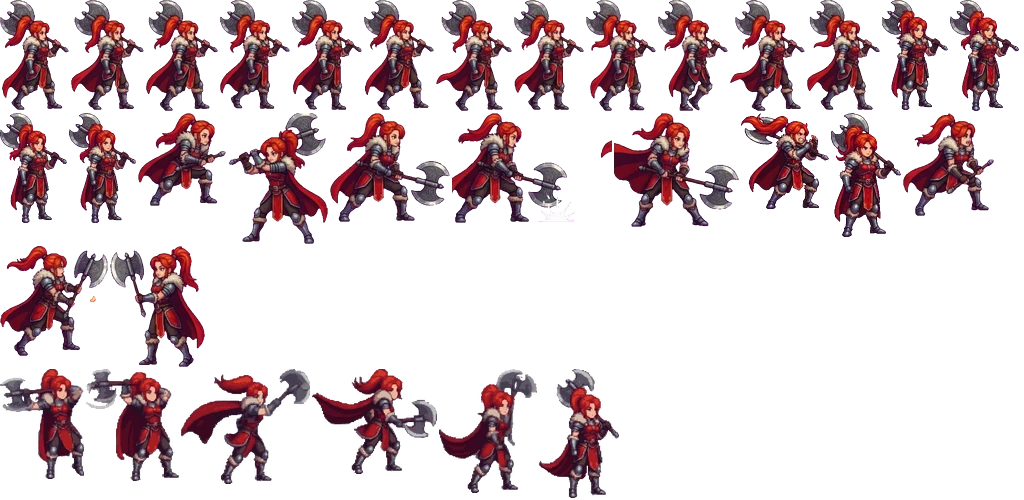
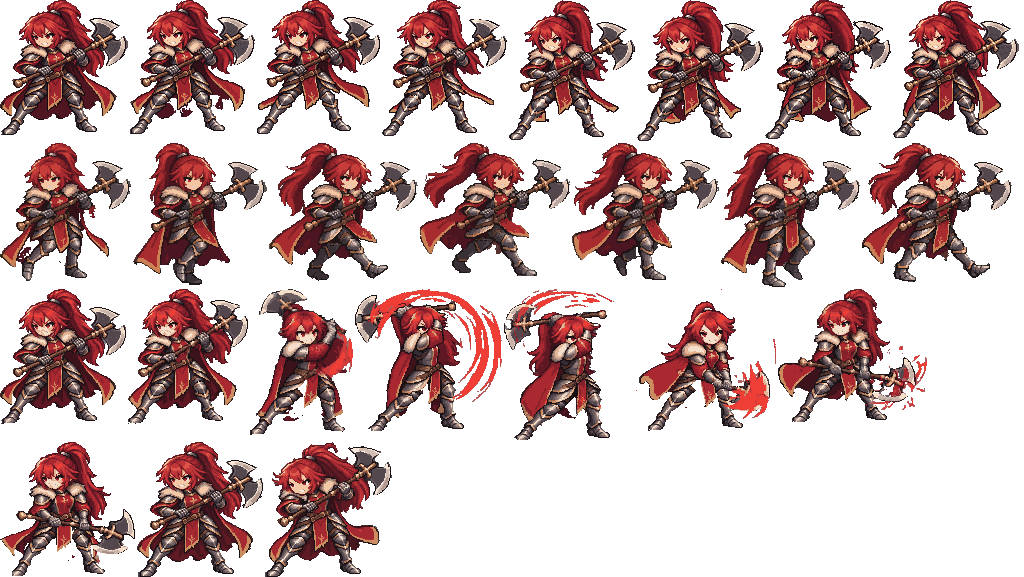
Kara en el estilo nuevo dentro del juego: reposo, caminar de perfil, ataque con media luna roja y golpe (SpriteCook)
Claude-Session: https://claude.ai/code/session_01C2SB4oU3LiuVGzsNuHyfze

diff --git a/www/js/anim_data.js b/www/js/anim_data.js
@@ -1,3 +1,3 @@
 /* Generado por tools/art/build_heroes.py — no editar a mano. */
 'use strict';
-const HERO_ANIM = {"iop":{"bh":110,"walk":[[0,0,69,110,31.8,109.3],[71,0,73,110,35.5,110.0],[146,0,72,111,34.0,110.4],[220,0,70,109,29.9,108.9],[292,0,70,110,30.5,109.3],[364,0,70,110,33.3,110.0],[436,0,76,111,40.8,110.4],[514,0,70,110,31.2,109.3],[586,0,70,111,32.3,110.7],[658,0,70,111,32.1,110.7],[730,0,75,111,42.1,111.1],[807,0,73,110,36.3,110.0]],"idle":[[882,0,66,110,29.9,110.1],[950,0,69,111,32.4,110.8],[0,113,67,110,31.6,109.9],[69,113,67,110,32.3,109.4]],"attack":[[0,369,84,110,64.9,109.9],[86,369,93,112,64.4,112.1],[181,369,129,115,62.2,114.9],[312,369,125,105,62.2,105.5],[439,369,98,124,51.1,123.8],[539,369,80,129,45.5,128.8]],"hurt":[[741,113,88,96,50.0,95.9],[831,113,70,124,28.5,124.1]],"cast":[[903,113,91,103,44.8,102.6],[0,246,108,110,41.8,109.7],[110,246,95,121,60.0,120.6]]},"cra":{"bh":110,"walk":[[0,0,76,110,37.3,109.7],[78,0,77,110,38.5,110.0],[157,0,77,110,38.4,110.0],[236,0,76,111,38.5,110.3],[314,0,76,109,36.7,109.0],[392,0,76,109,37.0,109.0],[470,0,76,109,35.7,109.0],[548,0,76,109,39.4,109.0],[626,0,76,111,37.1,110.7],[704,0,77,111,38.5,110.3],[783,0,76,111,35.2,110.7],[861,0,77,111,38.4,110.7]],"idle":[[940,0,74,111,36.8,110.7],[0,113,73,109,30.0,109.3]],"attack":[[75,113,43,109,21.3,108.4],[120,113,78,113,23.7,112.2],[200,113,77,112,23.7,111.9],[279,113,67,109,22.9,108.4],[348,113,81,112,22.6,111.6],[431,113,42,107,19.5,106.2]],"hurt":[[475,113,91,108,43.9,107.9],[568,113,77,112,46.1,112.1]],"cast":[[647,113,92,106,32.4,105.8],[741,113,106,110,33.5,110.0],[849,113,91,110,32.8,109.2],[0,228,134,111,62.7,111.1],[136,228,106,130,18.9,129.9]]},"feca":{"bh":110,"walk":[[0,0,59,110,33.0,110.0],[61,0,59,110,33.0,110.0],[122,0,58,110,31.4,110.0],[182,0,59,110,33.1,110.0],[243,0,58,111,31.7,110.8],[303,0,58,112,32.1,111.7],[363,0,59,112,32.9,111.3],[424,0,59,110,32.8,110.0],[485,0,58,111,31.4,110.8],[545,0,58,110,31.6,109.6]],"idle":[[605,0,54,110,24.2,110.2],[661,0,56,110,23.6,110.0],[719,0,59,110,25.2,109.8]],"attack":[[780,0,96,108,35.2,107.1],[878,0,119,111,37.6,111.0],[0,114,80,110,33.6,109.0],[82,114,103,115,36.6,114.8]],"hurt":[[187,114,107,102,61.6,101.8],[296,114,68,118,30.4,118.2]],"cast":[[366,114,66,100,29.6,99.7],[434,114,123,122,51.5,121.5],[559,114,76,110,37.6,110.0],[637,114,162,110,66.0,109.2],[801,114,58,124,26.6,124.0]]},"sombra":{"bh":110,"walk":[[0,0,86,110,37.7,110.0],[88,0,85,110,37.8,110.0],[175,0,72,110,36.7,110.0],[249,0,86,110,36.9,110.0],[337,0,86,110,37.6,110.0],[425,0,73,111,38.0,110.4],[500,0,73,111,37.8,110.8],[575,0,73,110,38.0,110.0],[650,0,72,110,36.9,109.6],[724,0,72,110,37.9,110.0],[798,0,72,110,37.5,109.6],[872,0,72,110,36.5,110.0]],"idle":[[946,0,70,110,33.1,109.9],[0,113,71,111,33.9,110.6],[73,113,67,110,31.0,109.7],[142,113,69,110,33.0,110.1]],"attack":[[213,113,126,106,54.7,105.5],[341,113,127,110,54.9,109.1],[470,113,123,108,66.9,107.3],[595,113,107,113,53.0,112.3],[704,113,127,111,55.3,110.9],[833,113,143,125,66.1,124.5]],"hurt":[[0,240,72,108,35.1,108.0],[74,240,99,112,40.1,112.0]],"cast":[[175,240,124,110,52.9,110.9],[301,240,131,106,64.0,105.7],[434,240,139,107,62.5,106.7],[575,240,124,110,52.3,110.0],[701,240,141,109,64.1,108.1],[844,240,124,110,52.6,110.0]]},"domadora":{"bh":110,"walk":[[0,0,60,107,27.5,106.4],[62,0,59,107,27.1,106.9],[123,0,60,107,27.2,106.4],[185,0,59,107,27.2,106.4],[246,0,60,109,27.4,108.2],[308,0,62,110,29.7,109.6],[372,0,66,110,32.0,110.0],[440,0,64,110,31.3,109.1],[506,0,61,110,27.5,110.0],[569,0,62,112,28.6,111.3],[633,0,66,112,31.1,111.8],[701,0,67,112,34.1,111.3],[770,0,61,114,27.7,113.1],[833,0,62,114,28.1,113.1],[897,0,61,114,27.6,113.6],[960,0,61,114,25.8,114.0]],"idle":[[0,116,53,110,25.3,110.1],[55,116,54,110,25.9,109.9],[111,116,54,110,26.1,109.5],[167,116,53,110,25.0,110.3]],"attack":[[222,116,126,120,42.4,119.5],[350,116,135,102,58.9,101.5],[487,116,149,110,39.5,109.2],[638,116,149,110,39.6,109.8]],"hurt":[[789,116,85,109,50.0,109.0],[876,116,61,111,27.2,111.3]],"cast":[[939,116,76,81,39.5,80.5],[0,238,105,127,52.2,127.0],[107,238,121,131,62.1,130.4],[230,238,132,93,31.0,93.0]]},"artificiera":{"bh":110,"walk":[[0,0,57,109,28.3,108.2],[59,0,69,109,27.3,108.6],[130,0,69,109,27.1,108.6],[201,0,69,109,27.4,108.6],[272,0,69,110,27.5,109.4],[343,0,70,111,28.6,110.2],[415,0,70,111,31.2,110.2],[487,0,68,110,30.8,109.8],[557,0,70,112,27.7,111.4],[629,0,70,112,28.8,111.4],[701,0,70,111,27.4,111.0],[773,0,70,111,28.0,111.0]],"idle":[[845,0,60,110,23.1,109.7],[907,0,56,110,22.4,110.1],[965,0,56,111,22.3,110.3],[0,114,53,110,22.2,109.9]],"attack":[[55,114,65,107,33.9,106.6],[122,114,69,112,32.4,111.9],[193,114,107,110,30.5,110.0]],"hurt":[[302,114,80,111,46.2,110.6],[384,114,45,109,24.3,108.4]],"cast":[[431,114,90,98,36.8,97.9],[523,114,77,110,34.0,110.0],[602,114,98,116,45.9,115.2]]},"berserker":{"bh":110,"walk":[[0,0,142,111,36.3,110.0],[144,0,143,111,35.8,110.0],[289,0,139,111,33.5,110.0],[430,0,136,110,35.6,109.4],[568,0,149,111,42.4,110.0],[719,0,145,109,37.1,108.9],[866,0,146,109,43.8,108.9],[0,113,136,109,35.7,108.9],[138,113,149,111,41.4,110.6],[289,113,139,111,33.8,110.6],[430,113,146,110,43.8,109.4],[578,113,138,111,37.4,110.0],[718,113,149,111,42.0,110.6],[869,113,145,110,37.9,109.4],[0,226,144,111,36.1,110.0],[146,226,137,111,35.7,110.0]],"idle":[[285,226,137,110,33.8,109.7],[424,226,138,110,35.3,110.0],[564,226,96,113,42.8,112.6]],"attack":[[662,226,145,94,35.9,93.8],[809,226,139,118,39.6,118.1],[0,346,123,111,37.6,110.4],[125,346,142,110,32.9,110.0],[269,346,143,110,33.1,110.0],[414,346,142,110,32.9,110.0]],"hurt":[[558,346,119,110,66.3,110.0]],"cast":[[679,346,121,104,33.1,103.8],[802,346,96,108,29.9,107.6],[900,346,115,111,57.3,110.6],[0,459,93,109,38.0,108.4],[95,459,132,114,67.0,113.6],[229,459,106,114,36.1,113.6]]}};
+const HERO_ANIM = {"iop":{"bh":135,"idle":[[0,0,128,135,44.4,135],[130,0,125,134,42.4,134],[257,0,123,134,41.4,134],[382,0,125,136,42.4,136],[509,0,126,140,42.4,140],[637,0,126,141,42.4,141],[765,0,126,139,43.4,139],[893,0,126,138,42.4,138]],"walk":[[0,143,131,138,46.4,138],[133,143,134,142,45.4,144],[269,143,149,138,57.4,139],[420,143,150,133,58.4,133],[572,143,147,137,54.4,137],[721,143,139,144,47.4,144],[862,143,150,139,58.4,139]],"attack":[[0,289,126,135,44.4,135],[128,289,120,135,42.4,135],[250,289,103,146,42.4,146],[355,289,147,142,56.4,143],[504,289,133,151,53.4,152],[639,289,137,142,51.4,142],[778,289,149,133,56.4,134],[0,442,135,134,52.4,135]],"hurt":[[137,442,126,135,44.4,135],[265,442,127,135,43.4,135]]},"cra":{"bh":110,"walk":[[0,0,76,110,37.3,109.7],[78,0,77,110,38.5,110.0],[157,0,77,110,38.4,110.0],[236,0,76,111,38.5,110.3],[314,0,76,109,36.7,109.0],[392,0,76,109,37.0,109.0],[470,0,76,109,35.7,109.0],[548,0,76,109,39.4,109.0],[626,0,76,111,37.1,110.7],[704,0,77,111,38.5,110.3],[783,0,76,111,35.2,110.7],[861,0,77,111,38.4,110.7]],"idle":[[940,0,74,111,36.8,110.7],[0,113,73,109,30.0,109.3]],"attack":[[75,113,43,109,21.3,108.4],[120,113,78,113,23.7,112.2],[200,113,77,112,23.7,111.9],[279,113,67,109,22.9,108.4],[348,113,81,112,22.6,111.6],[431,113,42,107,19.5,106.2]],"hurt":[[475,113,91,108,43.9,107.9],[568,113,77,112,46.1,112.1]],"cast":[[647,113,92,106,32.4,105.8],[741,113,106,110,33.5,110.0],[849,113,91,110,32.8,109.2],[0,228,134,111,62.7,111.1],[136,228,106,130,18.9,129.9]]},"feca":{"bh":110,"walk":[[0,0,59,110,33.0,110.0],[61,0,59,110,33.0,110.0],[122,0,58,110,31.4,110.0],[182,0,59,110,33.1,110.0],[243,0,58,111,31.7,110.8],[303,0,58,112,32.1,111.7],[363,0,59,112,32.9,111.3],[424,0,59,110,32.8,110.0],[485,0,58,111,31.4,110.8],[545,0,58,110,31.6,109.6]],"idle":[[605,0,54,110,24.2,110.2],[661,0,56,110,23.6,110.0],[719,0,59,110,25.2,109.8]],"attack":[[780,0,96,108,35.2,107.1],[878,0,119,111,37.6,111.0],[0,114,80,110,33.6,109.0],[82,114,103,115,36.6,114.8]],"hurt":[[187,114,107,102,61.6,101.8],[296,114,68,118,30.4,118.2]],"cast":[[366,114,66,100,29.6,99.7],[434,114,123,122,51.5,121.5],[559,114,76,110,37.6,110.0],[637,114,162,110,66.0,109.2],[801,114,58,124,26.6,124.0]]},"sombra":{"bh":110,"walk":[[0,0,86,110,37.7,110.0],[88,0,85,110,37.8,110.0],[175,0,72,110,36.7,110.0],[249,0,86,110,36.9,110.0],[337,0,86,110,37.6,110.0],[425,0,73,111,38.0,110.4],[500,0,73,111,37.8,110.8],[575,0,73,110,38.0,110.0],[650,0,72,110,36.9,109.6],[724,0,72,110,37.9,110.0],[798,0,72,110,37.5,109.6],[872,0,72,110,36.5,110.0]],"idle":[[946,0,70,110,33.1,109.9],[0,113,71,111,33.9,110.6],[73,113,67,110,31.0,109.7],[142,113,69,110,33.0,110.1]],"attack":[[213,113,126,106,54.7,105.5],[341,113,127,110,54.9,109.1],[470,113,123,108,66.9,107.3],[595,113,107,113,53.0,112.3],[704,113,127,111,55.3,110.9],[833,113,143,125,66.1,124.5]],"hurt":[[0,240,72,108,35.1,108.0],[74,240,99,112,40.1,112.0]],"cast":[[175,240,124,110,52.9,110.9],[301,240,131,106,64.0,105.7],[434,240,139,107,62.5,106.7],[575,240,124,110,52.3,110.0],[701,240,141,109,64.1,108.1],[844,240,124,110,52.6,110.0]]},"domadora":{"bh":110,"walk":[[0,0,60,107,27.5,106.4],[62,0,59,107,27.1,106.9],[123,0,60,107,27.2,106.4],[185,0,59,107,27.2,106.4],[246,0,60,109,27.4,108.2],[308,0,62,110,29.7,109.6],[372,0,66,110,32.0,110.0],[440,0,64,110,31.3,109.1],[506,0,61,110,27.5,110.0],[569,0,62,112,28.6,111.3],[633,0,66,112,31.1,111.8],[701,0,67,112,34.1,111.3],[770,0,61,114,27.7,113.1],[833,0,62,114,28.1,113.1],[897,0,61,114,27.6,113.6],[960,0,61,114,25.8,114.0]],"idle":[[0,116,53,110,25.3,110.1],[55,116,54,110,25.9,109.9],[111,116,54,110,26.1,109.5],[167,116,53,110,25.0,110.3]],"attack":[[222,116,126,120,42.4,119.5],[350,116,135,102,58.9,101.5],[487,116,149,110,39.5,109.2],[638,116,149,110,39.6,109.8]],"hurt":[[789,116,85,109,50.0,109.0],[876,116,61,111,27.2,111.3]],"cast":[[939,116,76,81,39.5,80.5],[0,238,105,127,52.2,127.0],[107,238,121,131,62.1,130.4],[230,238,132,93,31.0,93.0]]},"artificiera":{"bh":110,"walk":[[0,0,57,109,28.3,108.2],[59,0,69,109,27.3,108.6],[130,0,69,109,27.1,108.6],[201,0,69,109,27.4,108.6],[272,0,69,110,27.5,109.4],[343,0,70,111,28.6,110.2],[415,0,70,111,31.2,110.2],[487,0,68,110,30.8,109.8],[557,0,70,112,27.7,111.4],[629,0,70,112,28.8,111.4],[701,0,70,111,27.4,111.0],[773,0,70,111,28.0,111.0]],"idle":[[845,0,60,110,23.1,109.7],[907,0,56,110,22.4,110.1],[965,0,56,111,22.3,110.3],[0,114,53,110,22.2,109.9]],"attack":[[55,114,65,107,33.9,106.6],[122,114,69,112,32.4,111.9],[193,114,107,110,30.5,110.0]],"hurt":[[302,114,80,111,46.2,110.6],[384,114,45,109,24.3,108.4]],"cast":[[431,114,90,98,36.8,97.9],[523,114,77,110,34.0,110.0],[602,114,98,116,45.9,115.2]]},"berserker":{"bh":110,"walk":[[0,0,142,111,36.3,110.0],[144,0,143,111,35.8,110.0],[289,0,139,111,33.5,110.0],[430,0,136,110,35.6,109.4],[568,0,149,111,42.4,110.0],[719,0,145,109,37.1,108.9],[866,0,146,109,43.8,108.9],[0,113,136,109,35.7,108.9],[138,113,149,111,41.4,110.6],[289,113,139,111,33.8,110.6],[430,113,146,110,43.8,109.4],[578,113,138,111,37.4,110.0],[718,113,149,111,42.0,110.6],[869,113,145,110,37.9,109.4],[0,226,144,111,36.1,110.0],[146,226,137,111,35.7,110.0]],"idle":[[285,226,137,110,33.8,109.7],[424,226,138,110,35.3,110.0],[564,226,96,113,42.8,112.6]],"attack":[[662,226,145,94,35.9,93.8],[809,226,139,118,39.6,118.1],[0,346,123,111,37.6,110.4],[125,346,142,110,32.9,110.0],[269,346,143,110,33.1,110.0],[414,346,142,110,32.9,110.0]],"hurt":[[558,346,119,110,66.3,110.0]],"cast":[[679,346,121,104,33.1,103.8],[802,346,96,108,29.9,107.6],[900,346,115,111,57.3,110.6],[0,459,93,109,38.0,108.4],[95,459,132,114,67.0,113.6],[229,459,106,114,36.1,113.6]]}};

diff --git a/tools/art/sc_hero_atlas.py b/tools/art/sc_hero_atlas.py
@@ -1,0 +1,47 @@
+"""Atlas de animación de un héroe a partir de las tiras de SpriteCook (sc_anim.py) → www/img/heroes/anim/<id>.webp
+y su entrada en HERO_ANIM (www/js/anim_data.js). Sin reescalar: el pixelado queda tal cual sale.
+Uso: python3 tools/art/sc_hero_atlas.py ID 'pose=tira.png:i,j,k' ...   (índices opcionales; por defecto todos)
+Ej.:  python3 tools/art/sc_hero_atlas.py iop idle=kara_idle_tira.png walk=kara_walk2_tira.png:1,2,3,4,5,6,7 ...
+"""
+import json, os, sys
+import numpy as np
+from PIL import Image
+OUT = os.path.join(os.path.dirname(__file__), 'sc_out')
+ident, specs = sys.argv[1], sys.argv[2:]
+
+def frames(path):
+    sh = Image.open(path if os.path.exists(path) else os.path.join(OUT, path)).convert('RGBA')
+    fw = sh.height  # fotogramas cuadrados
+    return [sh.crop((i * fw, 0, i * fw + fw, sh.height)) for i in range(sh.width // fw)]
+
+poses = {}
+for s in specs:
+    pose, rest = s.split('=', 1)
+    path, _, idx = rest.partition(':')
+    fr = frames(path)
+    poses[pose] = [fr[int(i)] for i in idx.split(',')] if idx else fr
+
+# eje y suelo comunes a todo el héroe (las tiras salen con el mismo encuadre): pies del primer fotograma de reposo
+ref = np.array(poses.get('idle', next(iter(poses.values())))[0])[..., 3] > 110
+ground = max(int(np.nonzero(np.array(f)[..., 3] > 110)[0].max()) for fs in poses.values() for f in fs) + 1
+ys, xs = np.nonzero(ref[ground - 10:ground])
+cx = float(xs.mean()) if len(xs) else ref.shape[1] / 2
+idle_h = ground - int(np.nonzero(ref)[0].min())
+
+W = 1024; x = y = row = 0; placed = []; table = {'bh': idle_h}
+for pose, fs in poses.items():
+    table[pose] = []
+    for f in fs:
+        bb = f.getbbox(); t = f.crop(bb)
+        if x + t.width > W: x = 0; y += row + 2; row = 0
+        placed.append((t, x, y)); table[pose].append([x, y, t.width, t.height, round(cx - bb[0], 1), round(ground - bb[1], 1)])
+        x += t.width + 2; row = max(row, t.height)
+atlas = Image.new('RGBA', (W, y + row), (0, 0, 0, 0))
+for t, px, py in placed: atlas.alpha_composite(t, (px, py))
+atlas.save(f'www/img/heroes/anim/{ident}.webp', lossless=True, method=6)
+
+p = 'www/js/anim_data.js'; src = open(p).read()
+a = src.index('const HERO_ANIM = ') + len('const HERO_ANIM = '); b = src.index(';', a)
+data = json.loads(src[a:b]); data[ident] = table
+open(p, 'w').write(src[:a] + json.dumps(data, separators=(',', ':')) + src[b:])
+print(ident, {k: len(v) for k, v in table.items() if k != 'bh'}, 'bh', idle_h, 'atlas', atlas.size)

diff --git a/tools/art/sc_anim.py b/tools/art/sc_anim.py
@@ -1,0 +1,43 @@
+"""Lanza animaciones de SpriteCook a la vez, espera a que terminen y descarga las tiras.
+Uso: python3 tools/art/sc_anim.py lote.json   (lista de {name, asset_id, prompt, frames?, model?})
+Salida: tools/art/sc_out/<name>.webp (animada) y <name>_tira.png (fotogramas en fila); asset_id en ASSETS.md
+"""
+import json, os, sys, time, urllib.request
+from concurrent.futures import ThreadPoolExecutor
+from PIL import Image
+sys.path.insert(0, os.path.dirname(__file__))
+import spritecook as sc
+OUT = os.path.join(os.path.dirname(__file__), 'sc_out')
+
+def first(r): return r[0] if isinstance(r, list) else r
+
+def urls(o, acc):
+    if isinstance(o, dict):
+        for k, v in o.items():
+            if isinstance(v, str) and v.startswith('http') and ('url' in k): acc.append((k, v))
+            else: urls(v, acc)
+    elif isinstance(o, list):
+        for v in o: urls(v, acc)
+    return acc
+
+def one(job):
+    r = first(sc.call('animate_game_art', {'asset_id': job['asset_id'], 'prompt': job['prompt'], 'auto_enhance_prompt': False,
+        'output_frames': job.get('frames', 8), 'model': job.get('model', 'pixel-engine-v1.1'), 'output_format': 'webp', 'wait_seconds': 90}))
+    jid = r.get('job_id')
+    while r.get('status') not in ('succeeded', 'completed', 'failed', 'error'):
+        time.sleep(15); r = first(sc.call('check_job_status', {'job_id': jid}))
+    json.dump(r, open(os.path.join(OUT, job['name'] + '_job.json'), 'w'), indent=1)
+    if r.get('status') in ('failed', 'error'): return job['name'], r.get('status'), r.get('error'), None
+    u = [v for k, v in urls(r, []) if 'webp' in v or 'sprite' in k or 'url' == k] or [v for _, v in urls(r, [])]
+    p = os.path.join(OUT, job['name'] + '.webp'); open(p, 'wb').write(urllib.request.urlopen(u[0]).read())
+    im = Image.open(p); fr = []
+    for i in range(getattr(im, 'n_frames', 1)): im.seek(i); fr.append(im.convert('RGBA').copy())
+    strip = Image.new('RGBA', (fr[0].width * len(fr), fr[0].height))
+    for i, f in enumerate(fr): strip.alpha_composite(f, (i * f.width, 0))
+    strip.save(os.path.join(OUT, job['name'] + '_tira.png'))
+    return job['name'], r.get('status'), r.get('credits_used'), len(fr)
+
+if __name__ == '__main__':
+    sc.rpc('initialize', {'protocolVersion': '2025-03-26', 'capabilities': {}, 'clientInfo': {'name': 'fendaria', 'version': '1'}})
+    with ThreadPoolExecutor(5) as ex: res = list(ex.map(one, json.load(open(sys.argv[1]))))
+    for x in res: print(*x)

diff --git a/tools/art/VIERNES.md b/tools/art/VIERNES.md
@@ -9,7 +9,9 @@ Paquete de 1000 recomendado YA (no caduca) para validar el estilo con Kara antes
 - [x] Segunda prueba (56 créditos): `pixel-engine-image-v1` a 96×96 sí sale chibi → `tools/art/sc_out/kara2_comparar.png`
 - [x] **Elegida la Kara 6** (usuario, 31-oct): ese pixelado para todo el juego
 - [x] Prueba de coherencia con ese estilo (≈ 176 créditos): Nyx, brujo villano, Seta y jabalí → `tools/art/sc_out/coherencia2.png`
-- [ ] Probar su caminar y su ataque en el juego antes de seguir
+- [x] Kara animada (31-oct, ≈ 150 créditos): base girada a la derecha + reposo 8, caminar 7 (pixel-engine-v1.5: de perfil y con zancada larga; la v1.1 salía de frente y corta), ataque 8 con media luna roja, golpe 2 → `sc_out/kara_anim.gif`
+- [x] En el juego (`www/img/heroes/anim/iop.webp`, `HERO_ANIM.iop`, `tools/art/sc_hero_atlas.py`): camina a ambos lados y 4 ataques seguidos sin errores
+- [ ] Revisar en el móvil y pasar a los otros 6 héroes (falta: deslizar, ataque 2, lanzar, muerte; retrato `px/iop.png` sigue siendo el viejo)
 
 ## 1. Héroes (≈ 810 créditos) — 7 héroes, cada uno con:
 - [ ] Sprite base nuevo (Kara, Teo, Elara, **Nyx con el nuevo diseño**, Ayla, Brina, Brann)

diff --git a/tools/art/ESTILO.md b/tools/art/ESTILO.md
@@ -128,3 +128,8 @@ Reglas para TODOS los monstruos:
   **que se vean bien manda** (pedido del usuario).
 - Tamaño acorde a lo que son, según `MON_SIZE` (look.js): pequeños ~55–70, medianos ~85–95, gólems ~115 (héroe 104).
 - Caminar 8 fotogramas con saltitos y balanceo (como el brujo), golpe 3, muerte 6.
+
+## Animar (probado con Kara, 31-oct)
+1. Base girada a la derecha: editar la imagen elegida (`edit_asset_id`) pidiendo vista de tres cuartos; si sale mirando a la izquierda, voltearla (gratis) y subirla con `sc_upload.py`.
+2. `python3 tools/art/sc_anim.py lote.json` (20 créditos por animación). **Caminar con `pixel-engine-v1.5`** (de perfil, zancada larga; su primer fotograma es el giro: no usarlo). Reposo, ataque y golpe con la v1.1 por defecto.
+3. `python3 tools/art/sc_hero_atlas.py ID idle=… walk=…:1,2,3,4,5,6,7 attack=… hurt=…:0,1` → atlas y `HERO_ANIM` sin reescalar.

diff --git a/tools/art/sc_out/ASSETS.md b/tools/art/sc_out/ASSETS.md
@@ -29,3 +29,7 @@
 ## prueba_coherencia2.json — gpt-image-2.5-sunburst, estilo Kara 6
 - brujo2_1.png (32×32) → a8502266-3771-4510-be01-9b4470cacc13
 - jabali2_1.png (30×30) → c82d1de0-b683-46c7-83ef-40d59048c243
+
+## Kara 6 girada a la derecha (base para animar)
+- kara_der_1.png (136×136) → 7c81fe91-23da-4bd7-ac5e-c77660238037
+- kara_der_2.png (32×32) → 7cb223b7-9a13-446e-aef8-27f875b706a8
